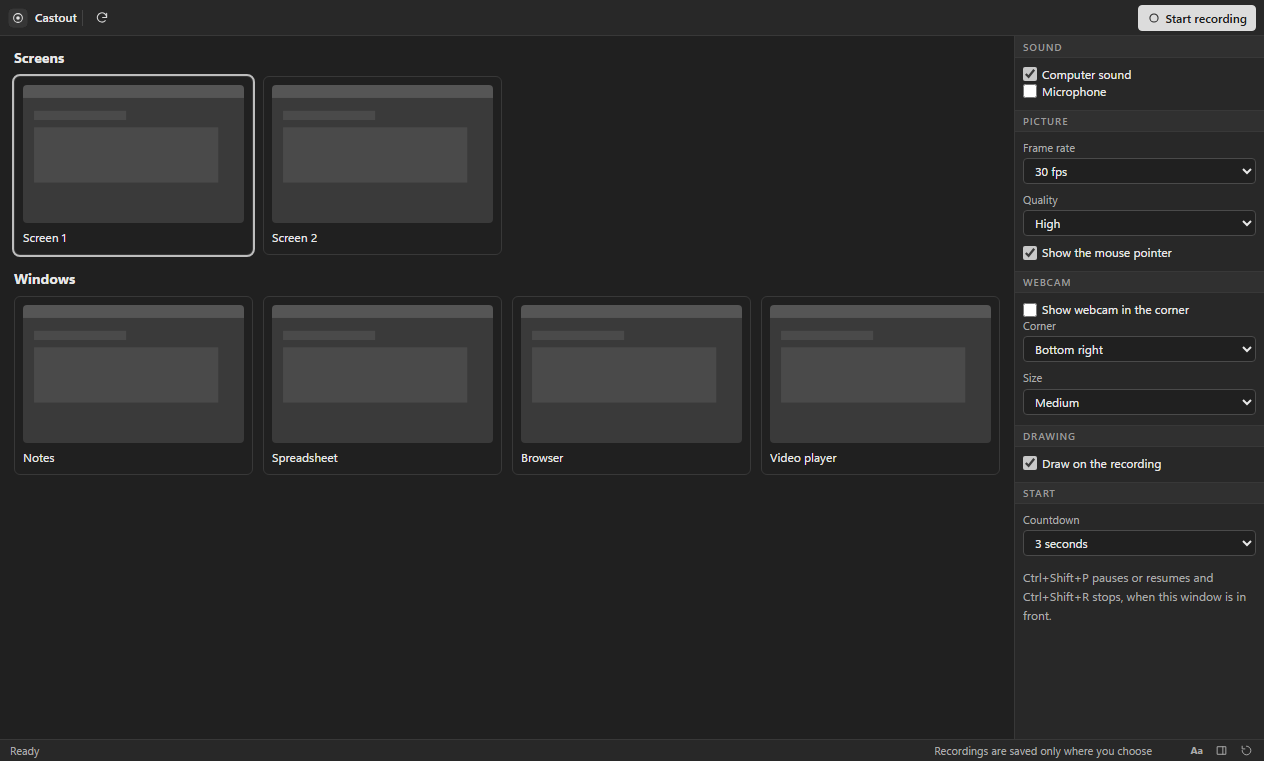
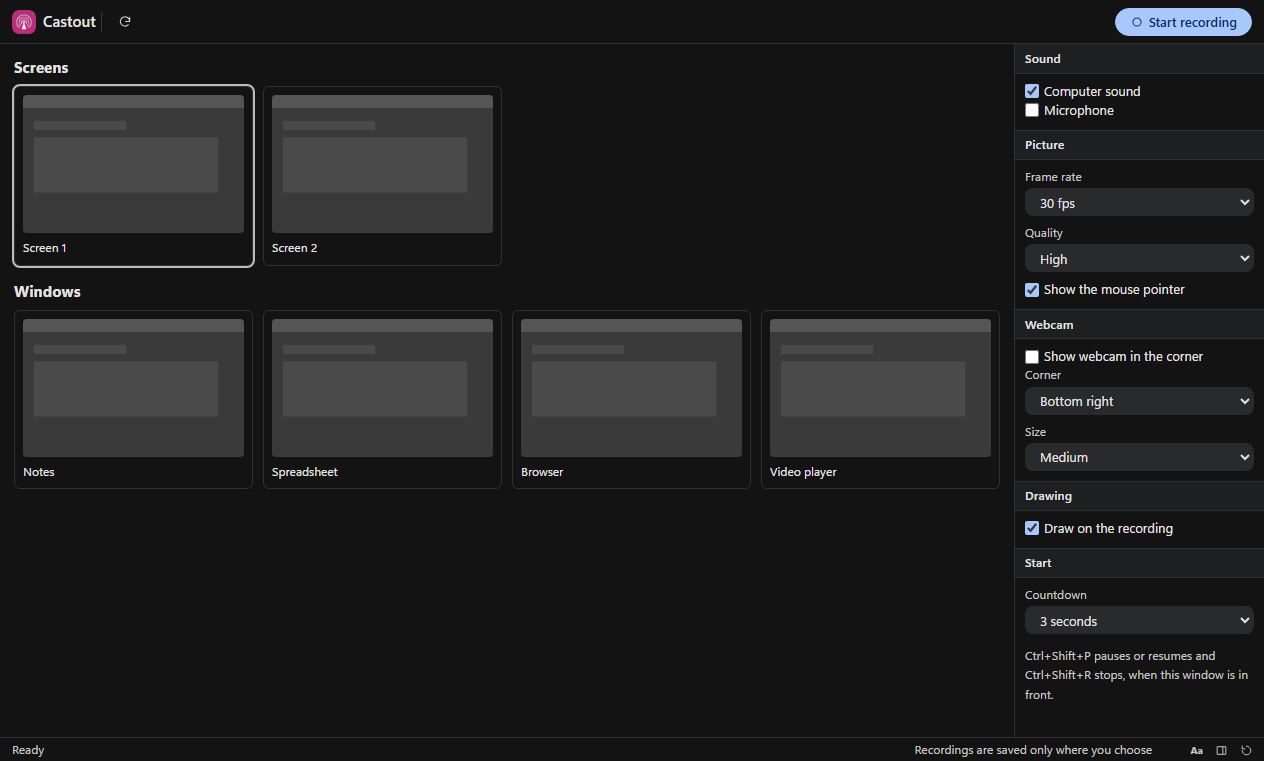
fix: Castout 1.0.14
New Google-style look: charcoal theme, pill buttons, blue accent, colour app logo. Refreshed README and screenshots.

diff --git a/renderer/lookout.css b/renderer/lookout.css
@@ -1,68 +1,69 @@
-/* Lookout gray UI kit v3: compact pro workspace, flat, no hue. Shared by every Lookout app. */
+/* Lookout UI kit v4: Google-style dark (AI Studio / Colab / Gemini): soft surfaces, pill buttons, blue accent. Shared by every Lookout app. */
 :root{
-  --bg:#202020; --bg-2:#282828; --bg-3:#303030; --bg-4:#3a3a3a; --stage:#181818;
-  --line:#383838; --line-2:#4a4a4a; --line-3:#5c5c5c;
-  --text:#e8e8e8; --text-2:#ababab; --text-3:#9a9a9a;
-  --accent:#dcdcdc; --accent-ink:#1b1b1b; --focus:#a0a0a0;
-  --radius:4px; --h:26px; --pad:8px;
-  --font:"Segoe UI Variable Text","Segoe UI",system-ui,-apple-system,sans-serif; --mono:Consolas,"Cascadia Mono",monospace;
+  --bg:#131314; --bg-2:#1e1f20; --bg-3:#282a2c; --bg-4:#333537; --stage:#0e0e0f;
+  --line:#2f3133; --line-2:#444746; --line-3:#5f6368;
+  --text:#e3e3e3; --text-2:#c4c7c5; --text-3:#9aa0a6;
+  --accent:#a8c7fa; --accent-ink:#062e6f; --accent-2:#0b57d0; --accent-soft:#2b3a55; --focus:#a8c7fa;
+  --radius:8px; --h:28px; --pad:10px;
+  --font:"Google Sans Text","Google Sans",Roboto,"Segoe UI Variable Text","Segoe UI",system-ui,-apple-system,sans-serif; --mono:Consolas,"Cascadia Mono",monospace;
 }
 *{box-sizing:border-box;margin:0;padding:0}
-html,body{height:100%;background:var(--bg);color:var(--text);font:12px/1.4 var(--font);overflow:hidden;user-select:none;-webkit-font-smoothing:antialiased}
+html,body{height:100%;background:var(--bg);color:var(--text);font:13px/1.45 var(--font);overflow:hidden;user-select:none;-webkit-font-smoothing:antialiased}
 button,input,select,textarea{font:inherit;color:inherit}
 .app{display:grid;grid-template-rows:auto 1fr auto;height:100vh}
 
 /* ---------- toolbar ---------- */
-.toolbar{display:flex;align-items:center;gap:1px;padding:4px 8px;min-height:36px;background:var(--bg-2);border-bottom:1px solid var(--line);flex-wrap:nowrap;overflow-x:auto;overflow-y:hidden;scrollbar-width:none}
+.toolbar{display:flex;align-items:center;gap:1px;padding:6px 12px;min-height:44px;background:var(--bg);border-bottom:1px solid var(--line);flex-wrap:nowrap;overflow-x:auto;overflow-y:hidden;scrollbar-width:none}
 .toolbar::-webkit-scrollbar{height:0}
 .toolbar>*{flex-shrink:0}
-.toolbar .sep{width:1px;height:16px;align-self:center;background:var(--line-2);margin:0 5px;opacity:.8}
+.toolbar .sep{width:1px;height:20px;align-self:center;background:var(--line-2);margin:0 8px;opacity:.7}
 .toolbar .grow{flex:1 1 auto;min-width:8px}
 .toolbar input[type=text],.toolbar input[type=search]{width:150px}
-.brand{display:flex;align-items:center;gap:7px;padding-right:2px;margin-right:2px;font-weight:600;font-size:12px;color:var(--text)}
-.brand img{width:20px;height:20px;border-radius:5px;display:block}
+.brand{display:flex;align-items:center;gap:7px;padding-right:2px;margin-right:2px;font-weight:500;font-size:15px;letter-spacing:.1px;color:var(--text)}
+.brand img{width:24px;height:24px;border-radius:7px;display:block}
 .brand+.sep{margin-left:0}
 
 /* ---------- buttons ---------- */
-.btn{display:inline-flex;align-items:center;justify-content:center;gap:5px;height:var(--h);padding:0 8px;background:var(--bg-3);border:1px solid var(--line);border-radius:var(--radius);cursor:pointer;white-space:nowrap;line-height:1;transition:background .08s,border-color .08s}
-.btn:hover{background:var(--bg-4);border-color:var(--line-2)}
-.btn:active{background:#262626}
+.btn{display:inline-flex;align-items:center;justify-content:center;gap:5px;height:var(--h);padding:0 14px;background:var(--bg-3);border:1px solid transparent;border-radius:999px;cursor:pointer;white-space:nowrap;line-height:1;transition:background .08s,border-color .08s}
+.btn:hover{background:var(--bg-4)}
+.btn:active{background:#3c3f41}
 .btn:focus-visible,input:focus-visible,select:focus-visible,textarea:focus-visible,[tabindex]:focus-visible{outline:2px solid var(--focus);outline-offset:1px}
-.btn.primary{background:var(--accent);color:var(--accent-ink);border-color:var(--accent);font-weight:600}
-.btn.primary:hover{background:#ececec;border-color:#ececec}
-.btn.on{background:#4a4a4a;border-color:var(--line-3);box-shadow:inset 0 0 0 1px #6a6a6a}
+.btn.primary{background:var(--accent);color:var(--accent-ink);border-color:var(--accent);font-weight:500}
+.btn.primary:hover{background:#c2d7fb;border-color:#c2d7fb;box-shadow:0 1px 3px rgba(0,0,0,.4)}
+.btn.on{background:var(--accent-soft);color:var(--accent);border-color:transparent}
 .btn[disabled]{opacity:.45;pointer-events:none}
-.btn.icon{padding:0;width:var(--h);min-width:var(--h)}
+.btn.icon{padding:0;width:var(--h);min-width:var(--h);border-radius:50%}
 .btn .ic{width:14px;height:14px;flex-shrink:0;display:block;opacity:.92}
 .toolbar .btn:not(.primary):not(.on){background:transparent;border-color:transparent}
-.toolbar .btn:not(.primary):not(.on):hover{background:var(--bg-4);border-color:var(--line-2)}
+.toolbar .btn:not(.primary):not(.on):hover{background:var(--bg-3);border-color:transparent}
 
 /* icon-only toolbar: names live in the tooltip (Aa in the status bar brings the labels back) */
-.toolbar:not(.lbl) .btn:not(.primary):has(> svg.ic),.toolbar.c3 .btn:has(> svg.ic){font-size:0;gap:0;width:var(--h);padding:0}
+.toolbar:not(.lbl) .btn:not(.primary):has(> svg.ic),.toolbar.c3 .btn:has(> svg.ic){font-size:0;gap:0;width:var(--h);padding:0;border-radius:50%}
 .toolbar.c2 .brand span{display:none}
 .toolbar.c2 input[type=text],.toolbar.c2 input[type=search]{width:110px}
 .toolbar.lbl.c1 .btn.minor:not(.primary):has(> svg.ic),.toolbar.lbl.c2 .btn:not(.primary):has(> svg.ic){font-size:0;gap:0;width:var(--h);padding:0}
 
 /* ---------- fields ---------- */
-input[type=text],input[type=number],input[type=search],input[type=date],select,textarea{background:var(--bg);border:1px solid var(--line-2);border-radius:var(--radius);padding:0 7px;height:var(--h);user-select:text;min-width:0;font-size:12px}
+input[type=text],input[type=number],input[type=search],input[type=date],select,textarea{background:var(--bg-3);border:1px solid transparent;border-radius:var(--radius);padding:0 10px;height:var(--h);user-select:text;min-width:0;font-size:13px}
 input[type=number],.frow>input,.field>input{font-variant-numeric:tabular-nums}
 textarea{height:auto;padding:5px 7px;resize:vertical;line-height:1.4}
 select{padding-right:4px;cursor:pointer}
-input:hover,select:hover,textarea:hover{border-color:var(--line-3)}
-input[type=range]{accent-color:#c8c8c8;height:var(--h)}
-input[type=checkbox]{accent-color:#c8c8c8;width:14px;height:14px;cursor:pointer}
-input[type=color]{border:1px solid var(--line-2);background:var(--bg);width:26px;height:var(--h);padding:2px;border-radius:var(--radius)}
-label.field{display:flex;flex-direction:column;gap:3px;color:var(--text-2);font-size:11px}
-label.field>input,label.field>select,label.field>textarea{width:100%;color:var(--text);font-size:12px}
+input:hover,select:hover,textarea:hover{background:var(--bg-4)}
+input[type=text]:focus,input[type=number]:focus,input[type=search]:focus,input[type=date]:focus,select:focus,textarea:focus{outline:none;border-color:var(--accent);background:var(--bg-2)}
+input[type=range]{accent-color:#a8c7fa;height:var(--h)}
+input[type=checkbox]{accent-color:#a8c7fa;width:14px;height:14px;cursor:pointer}
+input[type=color]{border:1px solid var(--line-2);background:var(--bg-3);width:26px;height:var(--h);padding:2px;border-radius:var(--radius)}
+label.field{display:flex;flex-direction:column;gap:3px;color:var(--text-2);font-size:12px}
+label.field>input,label.field>select,label.field>textarea{width:100%;color:var(--text);font-size:13px}
 
 /* ---------- layout ---------- */
 .main{display:flex;min-height:0;min-width:0}
-.sidebar{width:210px;background:var(--bg-2);border-right:1px solid var(--line);overflow:auto;padding:var(--pad);flex-shrink:0;min-width:0}
+.sidebar{width:210px;background:var(--bg);border-right:1px solid var(--line);overflow:auto;padding:var(--pad);flex-shrink:0;min-width:0}
 .sidebar.right{border-right:0;border-left:1px solid var(--line);width:250px}
 .sidebar.collapsed{display:none!important}
-.sidebar h3,.panel-title{font-size:10px;text-transform:uppercase;letter-spacing:.09em;color:var(--text-3);font-weight:600}
+.sidebar h3,.panel-title{font-size:12px;letter-spacing:.2px;color:var(--text-2);font-weight:500}
 .sidebar h3{margin:12px 0 6px}
-.sidebar>h3{display:flex;align-items:center;gap:6px;height:22px;margin:10px calc(var(--pad) * -1) 8px;padding:0 var(--pad);background:var(--bg-3);border-top:1px solid var(--line);border-bottom:1px solid var(--line)}
+.sidebar>h3{display:flex;align-items:center;gap:6px;height:30px;margin:10px calc(var(--pad) * -1) 8px;padding:0 var(--pad);background:var(--bg-2);border-top:1px solid var(--line);border-bottom:1px solid var(--line);color:var(--text)}
 .sidebar>h3:first-child{margin-top:calc(var(--pad) * -1);border-top:0}
 .panel-title{margin:12px 0 6px}
 .sidebar input[type=text],.sidebar input[type=search],.sidebar select,.sidebar textarea{width:100%}
@@ -73,20 +74,20 @@ label.field>input,label.field>select,label.field>textarea{width:100%;color:var(-
 .sidebar .btn{width:auto}
 .sidebar>.btn{width:100%;margin-bottom:5px}
 .stage{flex:1;min-width:0;min-height:0;position:relative;background:var(--stage);overflow:auto}
-.status{display:flex;gap:14px;align-items:center;height:22px;padding:0 10px;background:var(--bg-2);border-top:1px solid var(--line);color:var(--text-2);font-size:11px;white-space:nowrap;overflow:hidden}
+.status{display:flex;gap:14px;align-items:center;height:24px;padding:0 12px;background:var(--bg);border-top:1px solid var(--line);color:var(--text-2);font-size:12px;white-space:nowrap;overflow:hidden}
 .status .grow{flex:1}
 body.hasdock .status{padding-right:112px}
-.wbs{position:fixed;right:6px;bottom:2px;height:18px;display:flex;gap:2px;z-index:8;background:var(--bg-2);padding-left:6px}
+.wbs{position:fixed;right:6px;bottom:2px;height:18px;display:flex;gap:2px;z-index:8;background:var(--bg);padding-left:6px}
 .wbs[hidden]{display:none}
-.wbs .wb{height:18px;min-width:22px;padding:0 4px;display:inline-flex;align-items:center;justify-content:center;font-size:10px;font-weight:700;line-height:1;background:transparent;border:1px solid transparent;border-radius:3px;color:var(--text-2);cursor:pointer}
+.wbs .wb{height:18px;min-width:22px;padding:0 4px;display:inline-flex;align-items:center;justify-content:center;font-size:10px;font-weight:700;line-height:1;background:transparent;border:1px solid transparent;border-radius:6px;color:var(--text-2);cursor:pointer}
 .wbs .wb[hidden]{display:none}
 .wbs .wb svg{width:13px;height:13px;display:block}
-.wbs .wb:hover{background:var(--bg-4);border-color:var(--line-2);color:var(--text)}
-.wbs .wb.on{background:var(--bg-4);border-color:var(--line-3);color:var(--text)}
+.wbs .wb:hover{background:var(--bg-3);color:var(--text)}
+.wbs .wb.on{background:var(--accent-soft);color:var(--accent)}
 .list{display:flex;flex-direction:column;gap:1px}
-.list .item{padding:3px 6px;border-radius:var(--radius);cursor:pointer;border:1px solid transparent;display:flex;gap:6px;align-items:center;min-height:26px}
+.list .item{padding:3px 10px;border-radius:999px;cursor:pointer;border:1px solid transparent;display:flex;gap:6px;align-items:center;min-height:26px}
 .list .item:hover{background:var(--bg-3)}
-.list .item.sel{background:var(--bg-4);border-color:var(--line-2)}
+.list .item.sel{background:var(--accent-soft);color:var(--accent);border-color:transparent}
 .row{display:flex;gap:5px;align-items:center}
 .grow{flex:1 1 auto;min-width:0}
 .brow{display:grid;grid-template-columns:1fr 1fr;gap:5px;margin-bottom:5px}
@@ -99,17 +100,17 @@ body.hasdock .status{padding-right:112px}
 .sidebar .swatches{margin-bottom:8px}
 .list .item .btn{height:22px!important;width:24px!important;padding:0!important;font-size:0!important;gap:0;background:transparent;border-color:transparent;opacity:.55}
 .list .item:hover .btn,.list .item.sel .btn{opacity:1}
-.list .item .btn:hover{background:var(--bg-4);border-color:var(--line-2)}
+.list .item .btn:hover{background:var(--bg-4)}
 .col{display:flex;flex-direction:column;gap:5px}
 .muted{color:var(--text-2)}
 .empty{position:absolute;inset:0;display:flex;flex-direction:column;align-items:center;justify-content:center;gap:10px;color:var(--text-3);text-align:center;padding:24px}
-.empty .big{font-size:16px;color:var(--text-2);font-weight:600}
+.empty .big{font-size:20px;color:var(--text);font-weight:400}
 
 /* panel grip: drag to resize, double-click to collapse or restore */
 .grip{position:relative;flex:0 0 5px;width:5px;margin:0 -3px 0 -2px;z-index:6;cursor:col-resize;touch-action:none}
 .grip::after{content:"";position:absolute;top:0;bottom:0;left:2px;width:1px;background:transparent;transition:background .1s}
-.grip:hover::after,.grip.drag::after{background:var(--line-3);width:2px;left:1px}
-.grip.collapsed{flex:0 0 8px;width:8px;margin:0;background:var(--bg-2);border-left:1px solid var(--line);border-right:1px solid var(--line)}
+.grip:hover::after,.grip.drag::after{background:var(--accent);width:2px;left:1px}
+.grip.collapsed{flex:0 0 8px;width:8px;margin:0;background:var(--bg);border-left:1px solid var(--line);border-right:1px solid var(--line)}
 .grip.collapsed::after{left:3px;top:calc(50% - 14px);bottom:auto;height:28px;width:2px;background:var(--line-3);border-radius:2px}
 .grip.collapsed:hover{background:var(--bg-3)}
 body.gripping{cursor:col-resize}
@@ -117,30 +118,30 @@ body.gripping *{cursor:col-resize!important;user-select:none!important}
 
 /* ---------- overlays ---------- */
 .modal-back{position:fixed;inset:0;background:rgba(0,0,0,.6);display:flex;align-items:center;justify-content:center;z-index:50}
-.modal{background:var(--bg-2);border:1px solid var(--line-2);border-radius:8px;min-width:340px;max-width:80vw;max-height:85vh;overflow:auto;padding:16px;display:flex;flex-direction:column;gap:12px;box-shadow:0 18px 50px rgba(0,0,0,.5)}
-.modal h2{font-size:14px;font-weight:600}
-.toast{position:fixed;left:50%;bottom:34px;transform:translateX(-50%);background:var(--bg-4);border:1px solid var(--line-3);padding:7px 14px;border-radius:6px;z-index:60;box-shadow:0 8px 24px rgba(0,0,0,.4)}
-.progress{height:5px;background:var(--bg);border:1px solid var(--line);border-radius:4px;overflow:hidden}
+.modal{background:var(--bg-2);border:0;border-radius:24px;min-width:360px;max-width:80vw;max-height:85vh;overflow:auto;padding:24px;display:flex;flex-direction:column;gap:14px;box-shadow:0 8px 32px rgba(0,0,0,.6)}
+.modal h2{font-size:20px;font-weight:400}
+.toast{position:fixed;left:50%;bottom:34px;transform:translateX(-50%);background:#e3e3e3;color:#1f1f1f;border:0;padding:10px 18px;border-radius:8px;z-index:60;box-shadow:0 8px 24px rgba(0,0,0,.4)}
+.progress{height:6px;background:var(--bg-3);border:0;border-radius:999px;overflow:hidden}
 .progress>i,.progress>div{display:block;height:100%;background:var(--accent);width:0}
 
 /* ---------- tables ---------- */
 table.grid{border-collapse:separate;border-spacing:0;width:100%}
 table.grid th,table.grid td{border-bottom:1px solid var(--line);padding:0 10px;height:30px;text-align:left;vertical-align:middle}
-table.grid th{background:var(--bg-2);color:var(--text-2);font-weight:600;font-size:11px;position:sticky;top:0;z-index:1;height:26px}
-table.grid tbody tr:hover td{background:#242424}
-table.grid tr.sel td{background:#323232}
+table.grid th{background:var(--bg-2);color:var(--text-2);font-weight:500;font-size:12px;position:sticky;top:0;z-index:1;height:26px}
+table.grid tbody tr:hover td{background:var(--bg-2)}
+table.grid tr.sel td{background:var(--accent-soft)}
 table.grid tbody tr{cursor:default}
 table.grid td .btn{height:22px;margin-left:6px;vertical-align:middle}
 table.grid td{white-space:nowrap}
 
 /* ---------- misc ---------- */
 ::-webkit-scrollbar{width:10px;height:10px}
-::-webkit-scrollbar-thumb{background:#454545;border:3px solid transparent;background-clip:padding-box;border-radius:8px}
-::-webkit-scrollbar-thumb:hover{background:#5a5a5a;background-clip:padding-box;border:3px solid transparent}
+::-webkit-scrollbar-thumb{background:#4a4d50;border:3px solid transparent;background-clip:padding-box;border-radius:8px}
+::-webkit-scrollbar-thumb:hover{background:#6b6f73;background-clip:padding-box;border:3px solid transparent}
 ::-webkit-scrollbar-track,::-webkit-scrollbar-corner{background:transparent}
 .swatches{display:flex;flex-wrap:wrap;gap:5px}
-.swatches button{width:20px;height:20px;border:1px solid var(--line-3);border-radius:4px;cursor:pointer;padding:0}
+.swatches button{width:22px;height:22px;border:1px solid var(--line-3);border-radius:50%;cursor:pointer;padding:0}
 .swatches button.on{outline:2px solid var(--accent);outline-offset:2px}
-kbd{font-family:var(--mono);font-size:10px;background:var(--bg-3);border:1px solid var(--line-2);border-bottom-width:2px;border-radius:3px;padding:0 4px}
+kbd{font-family:var(--mono);font-size:10px;background:var(--bg-3);border:1px solid var(--line-2);border-bottom-width:2px;border-radius:4px;padding:0 5px}
 
 input::placeholder,textarea::placeholder{color:var(--text-3);opacity:1}

diff --git a/README.md b/README.md
@@ -1,8 +1,10 @@
-<p align="center"><img src="screenshots/banner.png" alt="Castout" width="100%"></p>
+<p align="center"><img src="screenshots/logo.png" alt="Castout" width="128"></p>
 
-<p align="center"><b>Record your screen</b><br>Version 1.0.3 for Windows · Free · Offline · No account</p>
+<h1 align="center">Castout</h1>
 
-<p align="center"><a href="https://github.com/plawanpawin-byte/castout/releases/latest"><b>Download Castout</b></a> · <a href="https://github.com/plawanpawin-byte/Lookout">All Lookout apps</a></p>
+<p align="center"><b>Record your screen</b><br>Version 1.0.14 for Windows · Free · Offline · No account</p>
+
+<p align="center"><a href="https://github.com/plawanpawin-byte/castout/releases/latest"><b>Download Castout</b></a> · <a href="https://github.com/plawanpawin-byte/lookout-launcher">Lookout launcher</a> · <a href="https://github.com/plawanpawin-byte/Lookout">All Lookout apps</a></p>
 
 ---
 
@@ -12,11 +14,51 @@ Castout records your screen or a single window, with computer sound and an optio
 
 ![Castout](screenshots/01-choose-what-to-record.png)
 
-**On this page:** [Screenshots](#see-it-in-action) · [Interface](#the-interface) · [Features](#everything-it-can-do) · [How to use it](#how-to-use-it) · [Shortcuts](#keyboard-shortcuts) · [Formats](#files-and-formats) · [Privacy](#private-by-design) · [Install](#install) · [Questions](#questions)
+**On this page:** [In plain words](#in-plain-words) · [Who it is for](#who-it-is-for) · [Try it in 3 steps](#try-it-in-3-steps) · [Screenshots](#see-it-in-action) · [Features](#everything-it-can-do) · [How to use it](#how-to-use-it) · [Privacy](#private-by-design) · [Install](#install) · [Questions](#questions)
 
-## What is new in 1.0.3
+## In plain words
 
-A refreshed interface: every toolbar button now has a clear line icon, the app's mark sits at the top left, controls share one height and spacing, panels line up in tidy grids, and the toolbar keeps every button reachable on smaller windows by switching less important buttons to icons.
+Castout **records what is on your screen** as a video. Use it for a tutorial ("here is how to do this"), to show a bug to a colleague, to save a video call you are allowed to record, or to capture a game moment. You choose the whole screen or one window, decide whether to record computer sound and your **microphone**, and press start. A short countdown gives you time to get ready.
+
+When you stop, you see the clip, can play it, and save it as **MP4, WebM, GIF or MP3** (audio only).
+
+**Not for:** Castout records and saves. To edit the recording, open it in Cutout.
+
+## Who it is for
+
+- **Teachers and trainers** creating how-to videos.
+- **Support teams** showing a problem to a developer.
+- **Gamers and creators** capturing clips.
+
+## Try it in 3 steps
+
+1. Click the screen or window you want to record.
+2. Turn the microphone on or off in the options, then click **Start recording**.
+3. Click **Stop and review**, watch the clip, then **Save** it as MP4.
+
+## What is new in 1.0.14
+
+A new look inspired by Google's own tools (AI Studio, Colab, Gemini): a calm dark charcoal theme, rounded pill buttons, a soft blue accent and roomier spacing. The app icon is now a colour logo so you can find Castout at a glance in the Start menu and in the Lookout launcher. All screenshots below were taken again with the new look.
+
+## In plain words
+
+Castout **records what is on your screen** as a video. Use it for a tutorial ("here is how to do this"), to show a bug to a colleague, to save a video call you are allowed to record, or to capture a game moment. You choose the whole screen or one window, decide whether to record computer sound and your **microphone**, and press start. A short countdown gives you time to get ready.
+
+When you stop, you see the clip, can play it, and save it as **MP4, WebM, GIF or MP3** (audio only).
+
+**Not for:** Castout records and saves. To edit the recording, open it in Cutout.
+
+## Who it is for
+
+- **Teachers and trainers** creating how-to videos.
+- **Support teams** showing a problem to a developer.
+- **Gamers and creators** capturing clips.
+
+## Try it in 3 steps
+
+1. Click the screen or window you want to record.
+2. Turn the microphone on or off in the options, then click **Start recording**.
+3. Click **Stop and review**, watch the clip, then **Save** it as MP4.
 
 ## See it in action
 
@@ -111,7 +153,7 @@ Saves WebM, MP4, GIF and MP3.
 
 ## Install
 
-1. Open the [latest release](https://github.com/plawanpawin-byte/castout/releases/latest) and download the file named **Castout-Setup-** followed by the version number and **.exe**. You can also install it from the [Lookout launcher](https://github.com/${OWNER}/lookout-launcher), which keeps it up to date.
+1. Open the [latest release](https://github.com/plawanpawin-byte/castout/releases/latest) and download the file named **Castout-Setup-** followed by the version number and **.exe**. You can also install it from the [Lookout launcher](https://github.com/plawanpawin-byte/lookout-launcher), which keeps it up to date.
 2. Run the installer. It installs just for you, so it does not ask for administrator rights.
 3. Windows may show a blue **Windows protected your PC** screen because these installers are not signed with a paid certificate. Click **More info**, then **Run anyway**.
 4. Open Castout from the Start menu.
@@ -129,18 +171,40 @@ No. Castout does not use the network.
 **Windows asks about screen capture. Why?**  
 Capturing the screen needs your permission; Castout only captures what you pick.
 
+**Does it record sound?**  
+Yes: computer sound, your microphone, or both, as you choose.
+
+**Why is my GIF big?**  
+GIFs are large by nature. Keep clips short, or save as MP4.
+
+**Can I record a single window?**  
+Yes. Click the window instead of the whole screen.
+
+**Does it record sound?**  
+Yes: computer sound, your microphone, or both, as you choose.
+
+**Why is my GIF big?**  
+GIFs are large by nature. Keep clips short, or save as MP4.
+
+**Can I record a single window?**  
+Yes. Click the window instead of the whole screen.
+
 ## About Lookout
 
-Castout belongs to the **[Lookout](https://github.com/plawanpawin-byte/Lookout)** family: ten small, private Windows apps for documents and media, all with the same calm grey look and the same promise that your files stay yours. Install and update them together with the [Lookout launcher](https://github.com/plawanpawin-byte/lookout-launcher).
+Castout is part of **[Lookout](https://github.com/plawanpawin-byte/Lookout)**: ten small, private Windows apps for documents and media that share one look and one promise, that your files stay on your computer. Install and update them together with the [Lookout launcher](https://github.com/plawanpawin-byte/lookout-launcher).
 
-- **[Pageout](https://github.com/plawanpawin-byte/pageout)**: read, annotate and sign pdfs
-- **[Chartout](https://github.com/plawanpawin-byte/chartout)**: flowcharts and diagrams
-- **[Branchout](https://github.com/plawanpawin-byte/branchout)**: mind maps and outlines
-- **[Planout](https://github.com/plawanpawin-byte/planout)**: plans and gantt timelines
-- **[Frameout](https://github.com/plawanpawin-byte/frameout)**: screen design and prototypes
-- **[Cutout](https://github.com/plawanpawin-byte/cutout)**: video editing on a timeline
-- **[Shiftout](https://github.com/plawanpawin-byte/shiftout)**: convert and compress media
-- **[Mendout](https://github.com/plawanpawin-byte/mendout)**: repair damaged media
-- **[Tuneout](https://github.com/plawanpawin-byte/tuneout)**: record and edit audio
+| | App | What it is for | Code |
+| --- | --- | --- | --- |
+| <img src="https://raw.githubusercontent.com/plawanpawin-byte/lookout-launcher/main/build/icon.png" width="32" alt="Lookout"> | **Lookout** | Install, open and update all the apps below | [GitHub](https://github.com/plawanpawin-byte/lookout-launcher) |
+| <img src="https://raw.githubusercontent.com/plawanpawin-byte/pageout/main/build/icon.png" width="32" alt="Pageout"> | **Pageout** | Read, annotate and sign PDFs | [GitHub](https://github.com/plawanpawin-byte/pageout) |
+| <img src="https://raw.githubusercontent.com/plawanpawin-byte/chartout/main/build/icon.png" width="32" alt="Chartout"> | **Chartout** | Flowcharts, org charts and diagrams | [GitHub](https://github.com/plawanpawin-byte/chartout) |
+| <img src="https://raw.githubusercontent.com/plawanpawin-byte/branchout/main/build/icon.png" width="32" alt="Branchout"> | **Branchout** | Mind maps and outlines | [GitHub](https://github.com/plawanpawin-byte/branchout) |
+| <img src="https://raw.githubusercontent.com/plawanpawin-byte/planout/main/build/icon.png" width="32" alt="Planout"> | **Planout** | Project plans and Gantt timelines | [GitHub](https://github.com/plawanpawin-byte/planout) |
+| <img src="https://raw.githubusercontent.com/plawanpawin-byte/frameout/main/build/icon.png" width="32" alt="Frameout"> | **Frameout** | App and web screen design with click-through prototypes | [GitHub](https://github.com/plawanpawin-byte/frameout) |
+| <img src="https://raw.githubusercontent.com/plawanpawin-byte/cutout/main/build/icon.png" width="32" alt="Cutout"> | **Cutout** | Video editing on a timeline | [GitHub](https://github.com/plawanpawin-byte/cutout) |
+| <img src="https://raw.githubusercontent.com/plawanpawin-byte/shiftout/main/build/icon.png" width="32" alt="Shiftout"> | **Shiftout** | Convert and compress video and audio, make GIFs | [GitHub](https://github.com/plawanpawin-byte/shiftout) |
+| <img src="https://raw.githubusercontent.com/plawanpawin-byte/castout/main/build/icon.png" width="32" alt="Castout"> | **Castout** | Record your screen | [GitHub](https://github.com/plawanpawin-byte/castout) |
+| <img src="https://raw.githubusercontent.com/plawanpawin-byte/mendout/main/build/icon.png" width="32" alt="Mendout"> | **Mendout** | Check and repair damaged video, audio, pictures and PDFs | [GitHub](https://github.com/plawanpawin-byte/mendout) |
+| <img src="https://raw.githubusercontent.com/plawanpawin-byte/tuneout/main/build/icon.png" width="32" alt="Tuneout"> | **Tuneout** | Record and edit audio | [GitHub](https://github.com/plawanpawin-byte/tuneout) |
 
 Released under the MIT License.
